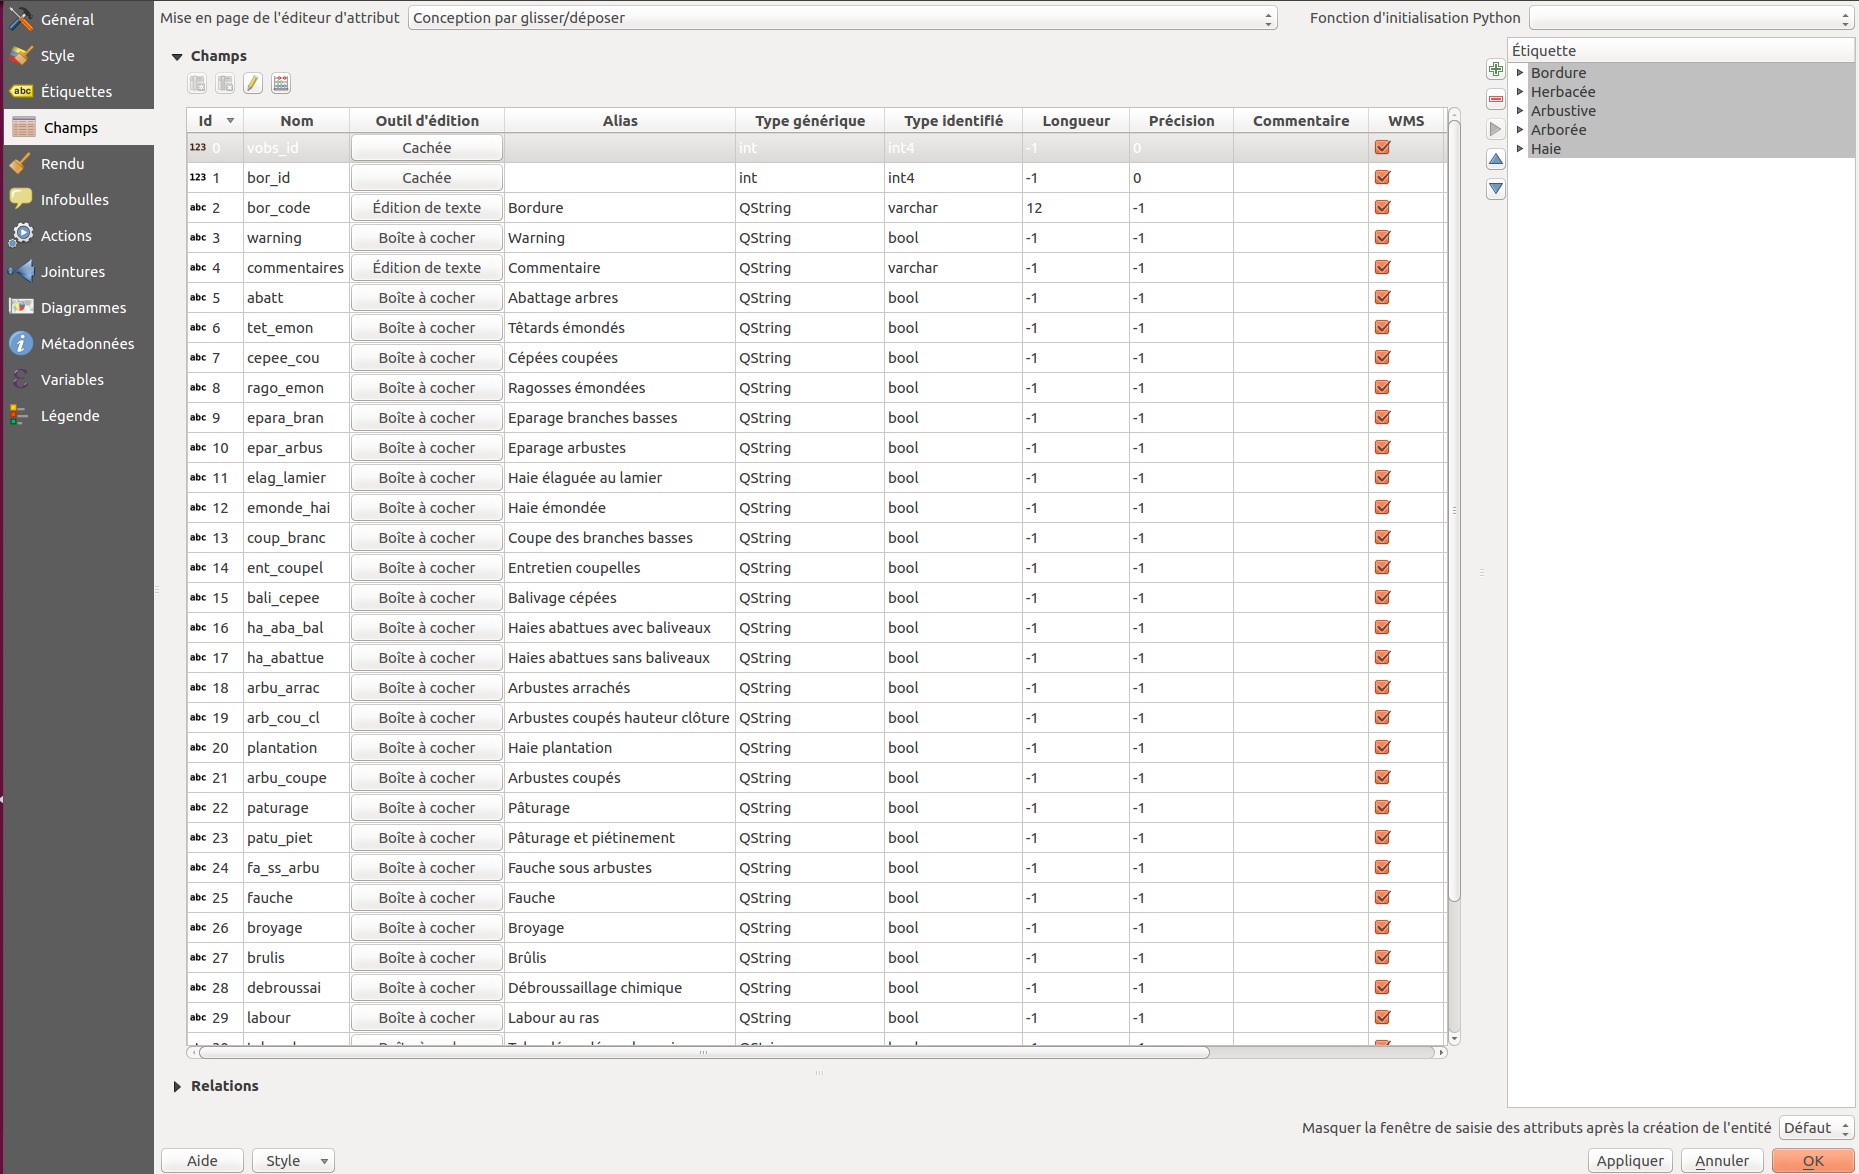
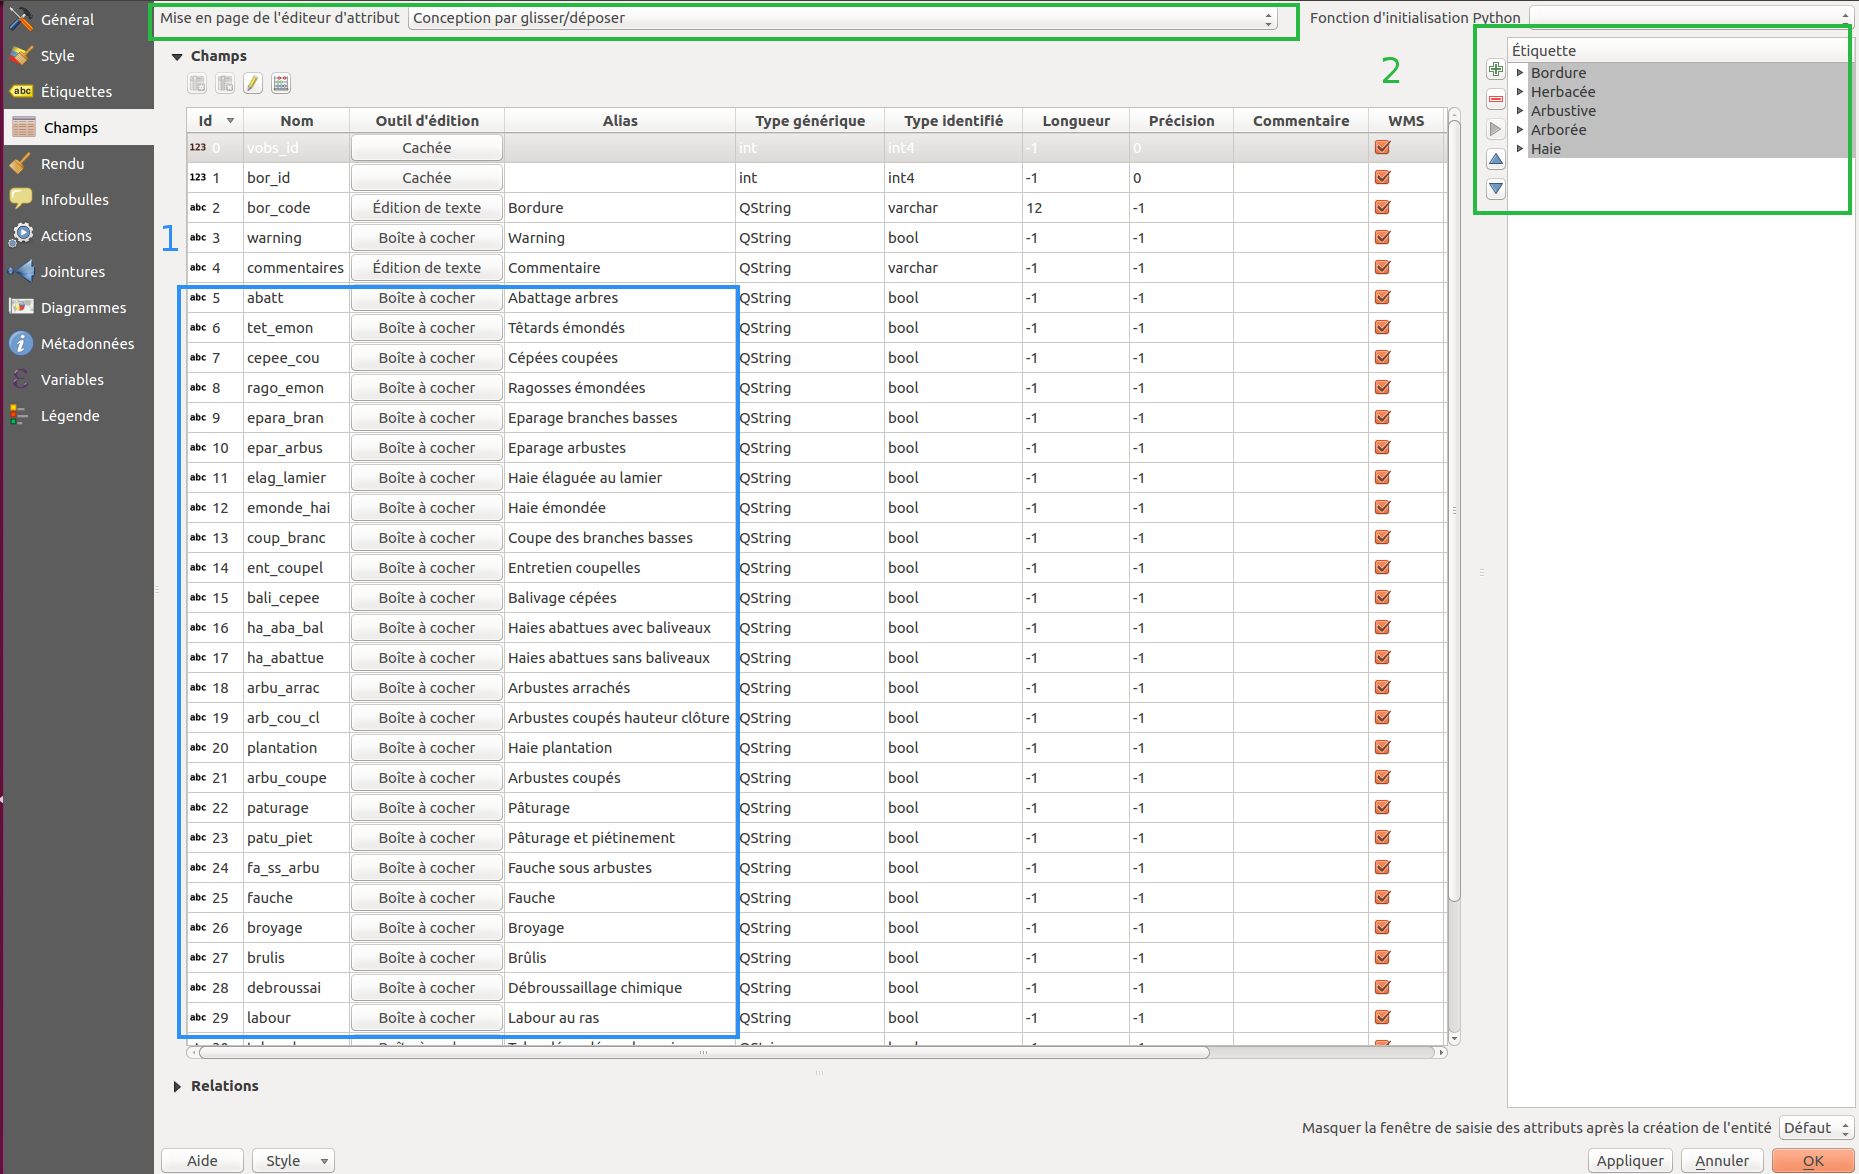
Doc interface terrain

diff --git a/Notice.md b/Notice.md
@@ -12,8 +12,9 @@ Une observation se fait sur une parcelle et une bordure à une date donnée déc
 * [Interface Terrain](#field)
 * [Interface Bureau](#dektop)
 
-### I) <a id="sql">SQL</a>
 ***
+### I) <a id="sql">SQL</a>
+
 Les fichier *__update_keys.sql__*, *__view.sql__*, *__function.sql__* et *__trigger_maj_bordure.sql__* listent les modifications apportées à la base de données.
 
 * **update_keys.sql** réorganise la base de données en ajoutant, modifiant et supprimant des colonnes et des contraintes sur les tables.
@@ -92,8 +93,9 @@ Les fichier *__update_keys.sql__*, *__view.sql__*, *__function.sql__* et *__trig
   Cette fonction rend possible l'édition d'une vue. Elle détourne l'insertion de la vue "v_observation_fusion" vers la table "observation_surface".
 
 ![MLD](bagap_MLD.png)
-### II)	Interface terrain <a id="field">Field</a>
 ***
+### II)	<a id="field">Interface terrain</a>
+
 Cette interface est vouées à être utilisée sur le terrain.
 
 Les contraintes pour cet affichage sont :
@@ -188,60 +190,86 @@ Les session vont être affichées sous forme de table attributaire, nous avons d
 
 ![MLD](/ScreenShot/Terrain/02_session_champs.png)
 
-  1. Champs provenant de la jointure qui seront affichés dans la table attributaire de Lizmap
-  2. Champs cachés à l'utilisateur mais prenant des valeurs automatiquement dans la base de données
-  3. Champs à afficher pour l'utilisateur avec un Alias compréhensible et des valeurs relationnelles ajoutés pour remplacer les champs clés étrangères par des libellés
+  1. <span style='color:#1cda49'>  Champs provenant de la jointure qui seront affichés dans la table attributaire de Lizmap </span>
+  2. <span style='color:#ff0000'> Champs cachés à l'utilisateur mais prenant des valeurs automatiquement dans la base de données</span>
+  3. <span style='color:#2d90f6'> Champs à afficher pour l'utilisateur avec un Alias compréhensible et des valeurs relationnelles ajoutés pour remplacer les champs clés étrangères par des libellés </span>
 
 
 * *Observation bordures*
 
-  Les observations de bordure seront simplement afficher à l'aide de popups et éditables. La couche contenant des champs booléens, il faut les afficher sous la forme de case à cocher et donner en alias des noms pertinents. De plus, la table contient un grand nombre de champs, nous décidons donc de les regrouper par des onglets à l'affichage. De la même façon que la session des champs vont rester caché du fait qu'ils ne sont pas utiles à l'utilisateur, mais important tout de même pour la base de données.
+Les observations de bordure seront simplement afficher à l'aide de popups et éditables. La couche contenant des champs booléens, il faut les afficher sous la forme de case à cocher et donner en alias des noms pertinents. De plus, la table contient un grand nombre de champs, nous décidons donc de les regrouper par des onglets à l'affichage. De la même façon que la session des champs vont rester caché du fait qu'ils ne sont pas utiles à l'utilisateur, mais important tout de même pour la base de données.
 
 ![MLD](/ScreenShot/Terrain/03_v_obs_bordure_champs.png)
 
-1. Mise en forme de boîte à cocher avec comme valeur TRUE (coché) et FALSE (décoché)
-2. Organisation du formulaire par cliquer/glisser sous forme d'onglets
+1. <span style='color:#2d90f6'> Mise en forme de boîte à cocher avec comme valeur TRUE (coché) et FALSE (décoché) </span>
+2. <span style='color:#27ba43'> Organisation du formulaire par cliquer/glisser sous forme d'onglets </span>
+
 
 * *Observation surface*
 
-  Les couches fusion et surface possèdent les mêmes type d'entité, leur paramétrage est ainsi identique. Nous utilisons le cliquer/glisser pour n'afficher que les champs qui nous intéressent. Nous utilisons également les valeurs relationnelles, cachées, boîte à cocher vues précédemment.
+Les couches fusion et surface possèdent les mêmes type d'entité, leur paramétrage est ainsi identique. Nous utilisons le cliquer/glisser pour n'afficher que les champs qui nous intéressent. Nous utilisons également les valeurs relationnelles, cachées, boîte à cocher vues précédemment.
 
 ![MLD](/ScreenShot/Terrain/05_v_obs_surface_champs.png)
 
 ###### Paramétrage de la symbologie
-  La symbologie est importante pour une meilleure visualisation de l'avancement du travail. Sur l'interface dédiée au terrain, nous voulons pouvoir repérer d'un coup d'oeil le travail que nous venons d'effectuer. Nous recherchons donc ici à différencier les données à enregistrer des données déjà présentes. La symbologie se fera donc sur les couches concernant les observations (de bordure et de surface). Afin de ne pas mélanger les entités, nous donnons deux couple de couleur différentes, une pour les bordures et l'autre pour les parcelles.
+La symbologie est importante pour une meilleure visualisation de l'avancement du travail. Sur l'interface dédiée au terrain, nous voulons pouvoir repérer d'un coup d'oeil le travail que nous venons d'effectuer. Nous recherchons donc ici à différencier les données à enregistrer des données déjà présentes. La symbologie se fera donc sur les couches concernant les observations (de bordure et de surface). Afin de ne pas mélanger les entités, nous donnons deux couple de couleur différentes, une pour les bordures et l'autre pour les parcelles.
+
 
 ![MLD](/ScreenShot/Terrain/06_v_obs_bordure_style.png)
 1.  Remplissage vert clair pour indiquer les observation réalisée pour la session en en cours
-1.  Remplissage rouge pour les observations qui ne sont pas encore renseignées pour la session courante.
+2.  Remplissage rouge pour les observations qui ne sont pas encore renseignées pour la session courante.
 
 ![MLD](/ScreenShot/Terrain/07_v_obs_surface_style.png)
 1.  Remplissage bleu pour les observations qui ne sont pas réalisée et pour contraster avec le vert des bordures.
-1.  Remplissage rouge pour les observations qui ne sont pas encore réalisées. Les points noir sont présent pour contraster la symbologie des bordures.
+2.  Remplissage rouge pour les observations qui ne sont pas encore réalisées. Les points noir sont présent pour contraster la symbologie des bordures.
 
 
 #### Paramètres Lizmap
-   Pour cette interface, nous avons besoin d'afficher à la carte les lisières, bordures et surface, nous gardons ainsi dans la légende les couches lisiere, v_observation_surface et v_observation_bordure. Nous activons les popups pour les bordures et les surfaces dont nous voulons connaître les observations. Nous ajoutons la session en table attributaire.
-
-   Pour finir, nous permettons l'édition et la suppression des couches v_observation_bordure, v_observation_surface et session.
+Cette interface doit permettre la modification des observations sur les parcelles et sur les bordures. Il doit aussi rendre possible la modification de l'état de la session une fois que celle-ci est finie.
 ###### Paramétrage des actions
-   ![MLD](/ScreenShot/Terrain/08_param_liz_carte.png)
+* Edition
+Nous ajoutons les couches éditable dans l'onglet ** *'Édition des couches'* ** .
+Pour chacune des couches, nous cochons l'option ** *'Modifier les attributs'* ** ainsi que ** *'Supprimer'* ** , excepté pour la couche session.
 
    ![MLD](/ScreenShot/Terrain/09_param_edition.png)
 
+* Table attributaire
+
+Ajouter les couches dans l'onglet ** *'Table attributaire'* ** permet d'afficher les données des couches dans un tableau sur l'interface. C'est aussi en les ajoutant dans cet onglet, que l'on peut utiliser le trie par localisation de la couche, ainsi que les relations parent/enfant qui filtrent les enfants en fonction de l'entité parent.
+
+Ici, nous voulons simplement visualiser les données de la table session, mais nous ajoutons aussi la table mv_zone en cochant l'option ** *'Masquer la couche dans la liste'* ** puisque nous n'avons pas besoin de voir les données, mais nous utilisons la localisation sur la couche.
+
+
    ![MLD](/ScreenShot/Terrain/10_param_attributaire.png)
+
+* Localisation par couche
+
+La localisation par couche permet de filtrer les données d'une couche en fonction des attributs spécifiés. Si l'entité est géographique, il est possible de zoomer dessus. Nous l'utilisons ici pour centrer la carte sur la zone sur laquelle nous voulons enregistrer les observations.
 
    ![MLD](/ScreenShot/Terrain/11_param_locate_zone.png)
 
 ###### Paramétrage de l'affichage
 
+La configuration de l'affichage se fait dans l'onglet ** *'Couches'* ** du plugin Lizmap dans la partie ** *'Popup'* ** de la couche sélectionnée. En sélectionnant 'lizmap' comme source, il est possible de modifier les informations à afficher par la popup avec un balisage HTML. Cela est utile pour embellir l'affichage, ou pour ne montrer que certains champs.
+
+Ici nous souhaitons avoir une vision simplifier des champs des couches d'observation. Nous utilisons un tableau avec des fonds de couleur intercalés une fois sur deux et les valeurs booléennes sont en majuscule.
+
+* Bordures
+
+
    ![MLD](/ScreenShot/Terrain/12_param_bordure_config.png)
+*  Parcelles 'fusion'
+
 
    ![MLD](/ScreenShot/Terrain/13_param_fusion_config.png)
 
+* Parcelles
+
+
    ![MLD](/ScreenShot/Terrain/14_param_surface_config.png)
 
-Nous pouvons maintenant lancer l'interface sur le web, et visualiser nos couches, cliquer sur les entités et éditer des observations qui se mettrons à jour instantanément.
- en changeant de couleur.
 
-### III)	Interface bureau <a id="desktop"></a>
+Avec cette interface, nous pouvons nous diriger sur le terrain et saisir simplement les données concernant les entretiens des bordures et l'état des parcelles.
+
+***
+### III) <a id="desktop">Interface bureau</a>
